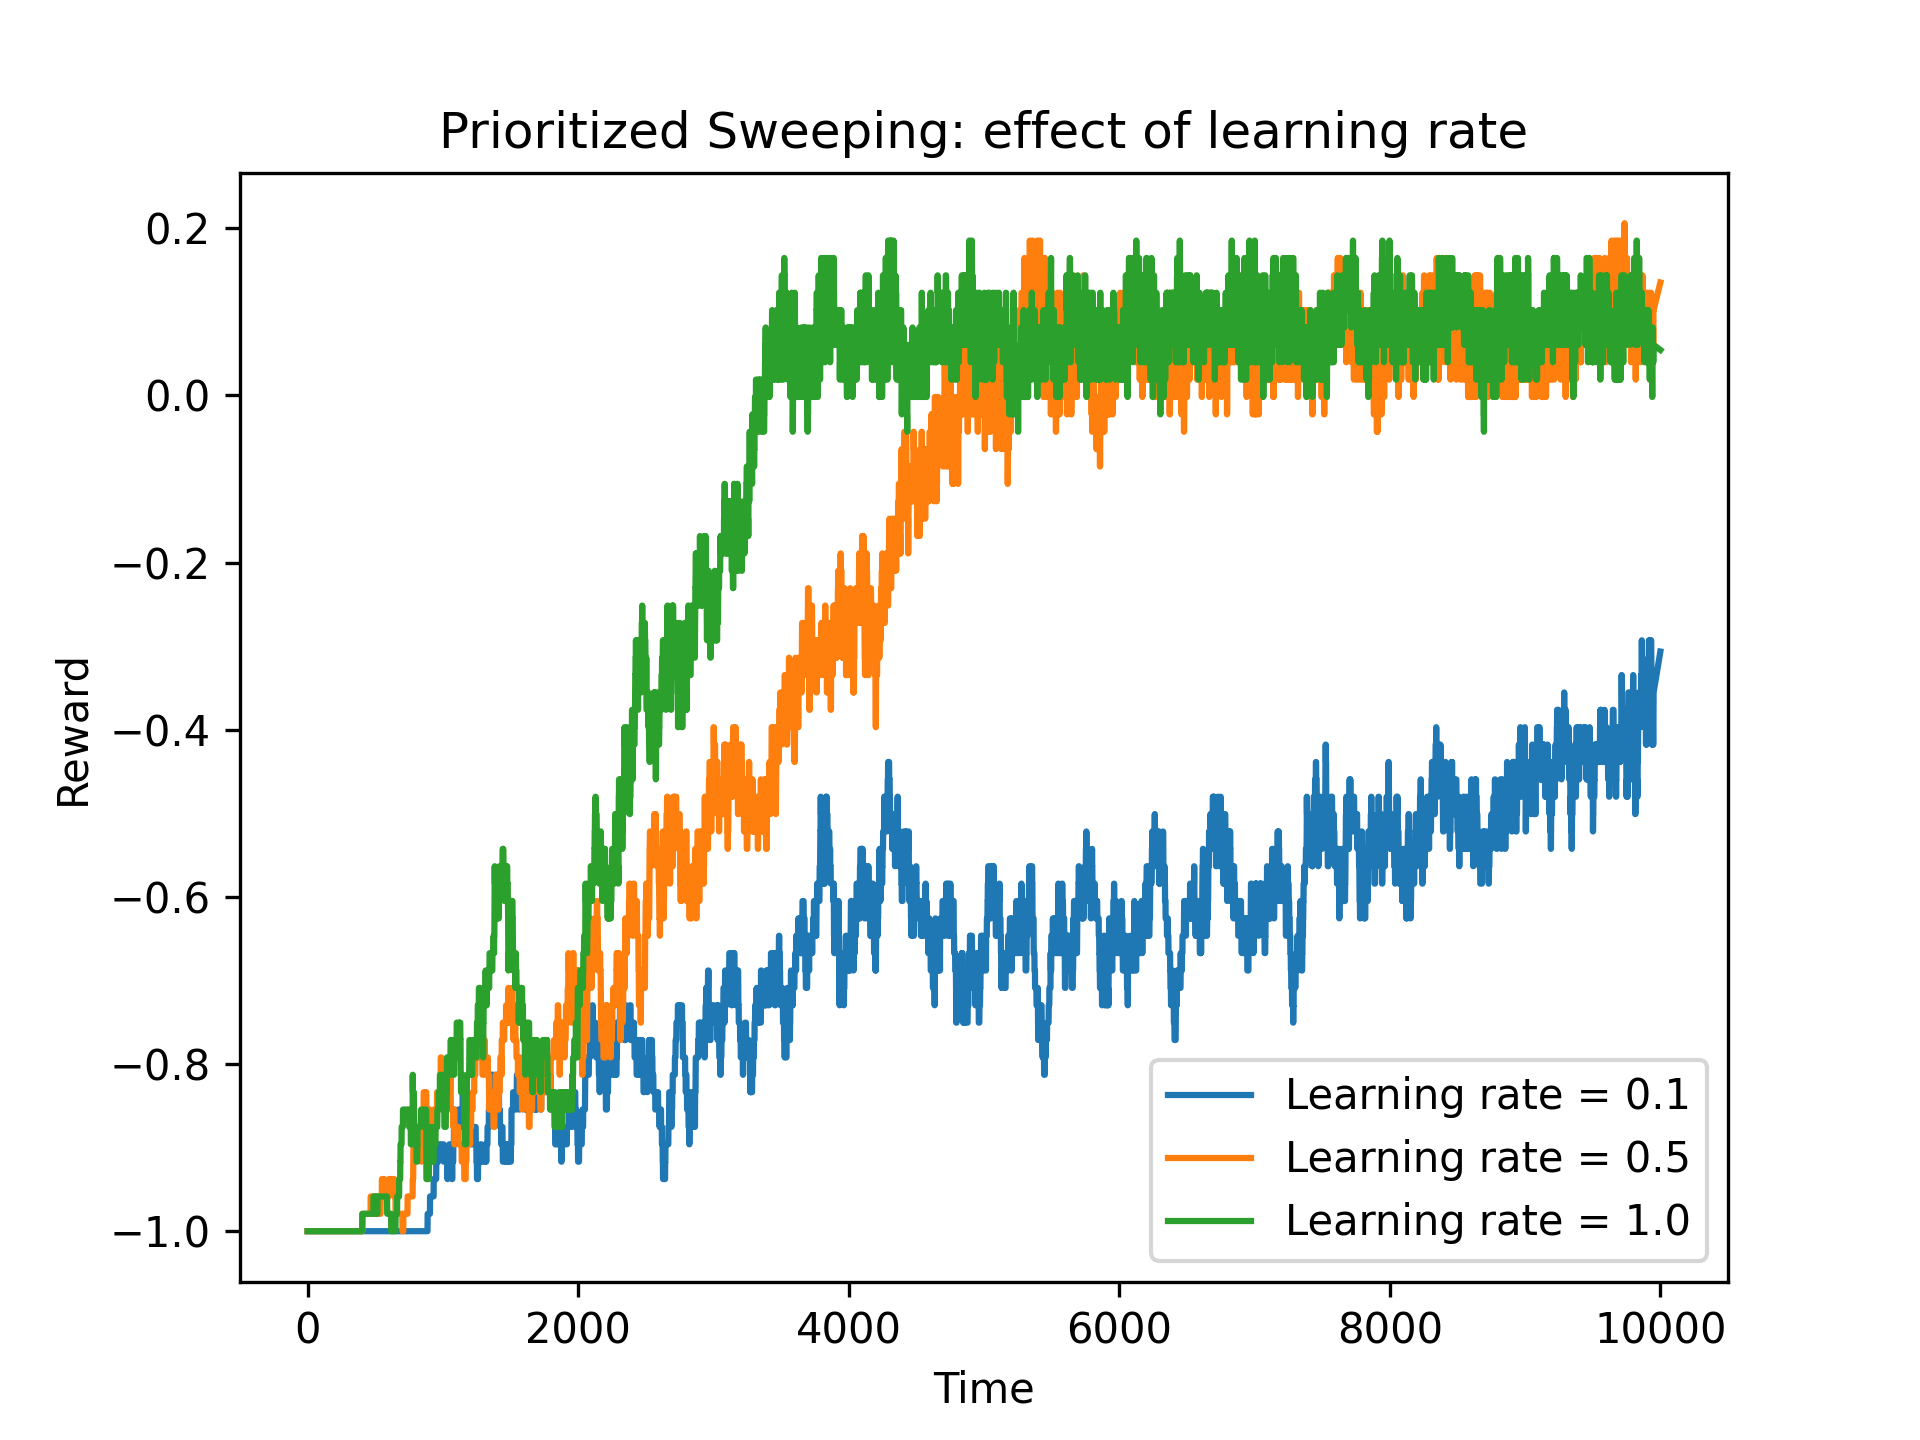
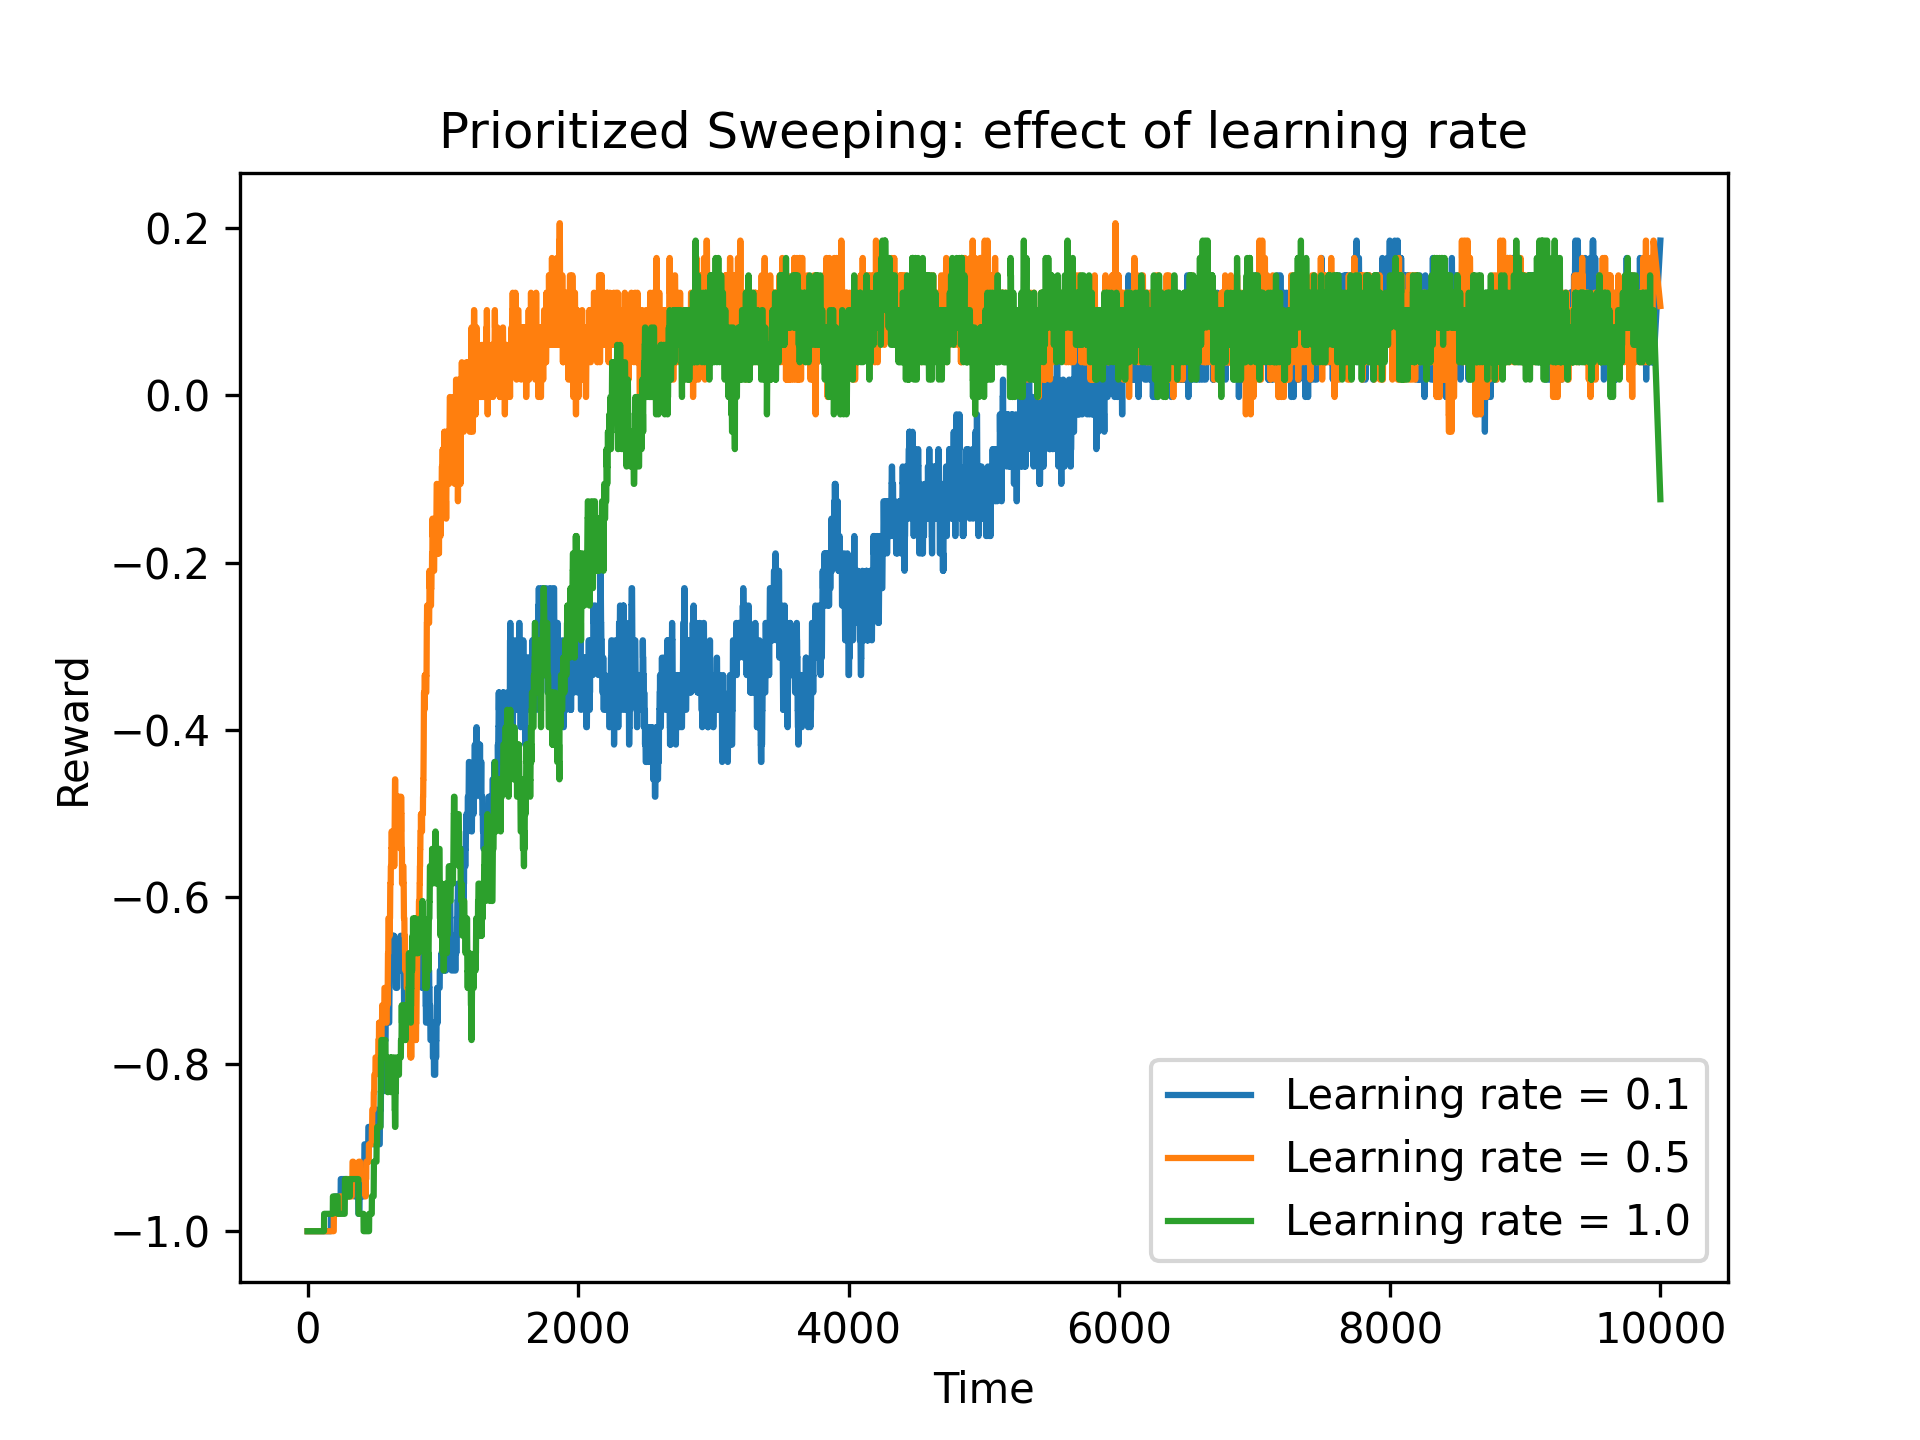
solved PS

Changed region(s): [[0.1562, 0.1562, 0.875, 0.875]]

diff --git a/MBRLAgents.py b/MBRLAgents.py
@@ -71,6 +71,8 @@ class PrioritizedSweepingAgent:
         # TO DO: Initialize count tables, and reward sum tables. 
         self.n = np.zeros((n_states, n_actions, n_states))
         self.r = np.zeros((n_states, n_actions, n_states))
+        self.p_hat = np.zeros((n_states, n_actions, n_states))
+        self.r_hat = np.zeros((n_states, n_actions, n_states))
 
     def select_action(self, state, epsilon):
         # If a random number is within the explore rate we explore by choosing a random action
@@ -94,9 +96,15 @@ class PrioritizedSweepingAgent:
         
         self.n[state][action][next_state] += 1 
         self.r[state][action][next_state] += reward
+
+        # Update model
+        self.p_hat[state][action][next_state] = self.n[state][action][next_state]/np.sum(self.n[state][action][next_state])
+        self.r_hat[state][action][next_state] = self.r[state][action][next_state]/self.n[state][action][next_state]
         
+        # Update Q-table
         self.Q_sa[state][action] += self.learning_rate * (reward + self.gamma * max(self.Q_sa[next_state])-self.Q_sa[state][action])
 
+        # Calculate priority
         p = abs(reward + self.gamma * max(self.Q_sa[next_state])-self.Q_sa[state][action])
         if p > self.priority_cutoff:
             self.queue.put((-p,(state,action)))
@@ -105,25 +113,24 @@ class PrioritizedSweepingAgent:
         for _ in range(n_planning_updates):
             if self.queue.empty():
                 break
-            p,(state, action) = self.queue.get()
 
-             # Choose next state
-            p_hat = self.n[state][action]/np.sum(self.n[state][action])
-            next_state = np.random.choice(np.arange(self.n_states), p=p_hat)
+            p,(plan_state, plan_action) = self.queue.get()
             
-            reward = self.r[state][action][next_state]/self.n[state][action][next_state]
+             # Choose next state and reward from p_hat and r_hat
+            next_state = np.random.choice(np.arange(self.n_states), p=self.p_hat[plan_state][plan_action])
+            reward = self.r_hat[plan_state][plan_action][next_state]
 
-            # Update q value
-            self.Q_sa[state][action] += self.learning_rate * (reward + self.gamma * max(self.Q_sa[next_state])-self.Q_sa[state][action])
+            # Update q value   
+            self.Q_sa[plan_state][plan_action] += self.learning_rate * (reward + self.gamma * max(self.Q_sa[next_state])-self.Q_sa[plan_state][plan_action])
 
             # Loop over all state actions that may lead to state s
             for previous_state in range(self.n_states):
                 for action in range(self.n_actions):
-                    if self.n[previous_state][action][state] > 0:
+                    if self.n[previous_state][action][plan_state] > 0:
 
                         # Calculate reward and priority value
-                        reward = self.r[previous_state][action][state]/self.n[previous_state][action][state]
-                        p = abs(reward + self.gamma * max(self.Q_sa[previous_state])-self.Q_sa[previous_state][action])
+                        reward = self.r_hat[previous_state][action][plan_state]
+                        p = abs(reward + self.gamma * max(self.Q_sa[plan_state])-self.Q_sa[previous_state][action])
                         if p > self.priority_cutoff:
                             self.queue.put((-p,(previous_state,action)))
 
@@ -183,3 +190,4 @@ def test():
     
 if __name__ == '__main__':
     test()
+    

diff --git a/MBRLExperiment.py b/MBRLExperiment.py
@@ -66,7 +66,7 @@ def experiment():
     smoothing_window = 101
     gamma = 0.99
 
-    for policy in ["Dyna","Prioritized Sweeping"]:
+    for policy in ["Prioritized Sweeping"]:
     
         ##### Assignment a: effect of epsilon ######
         learning_rate = 0.5
@@ -79,7 +79,7 @@ def experiment():
                                            learning_rate, gamma, epsilon, n_planning_updates)
             Plot.add_curve(learning_curve,label="$\epsilon$ = {}".format(epsilon))
         Plot.save("{}_egreedy.png".format(policy))
-        
+
         ##### Assignment b: effect of n_planning_updates ######
         epsilon=0.1
         n_planning_updatess = [1,5,15]
@@ -106,5 +106,5 @@ def experiment():
     
 if __name__ == "__main__":
     experiment()
-    print(["123", "456"][0])
+    # print(["123", "456"][0])
         
